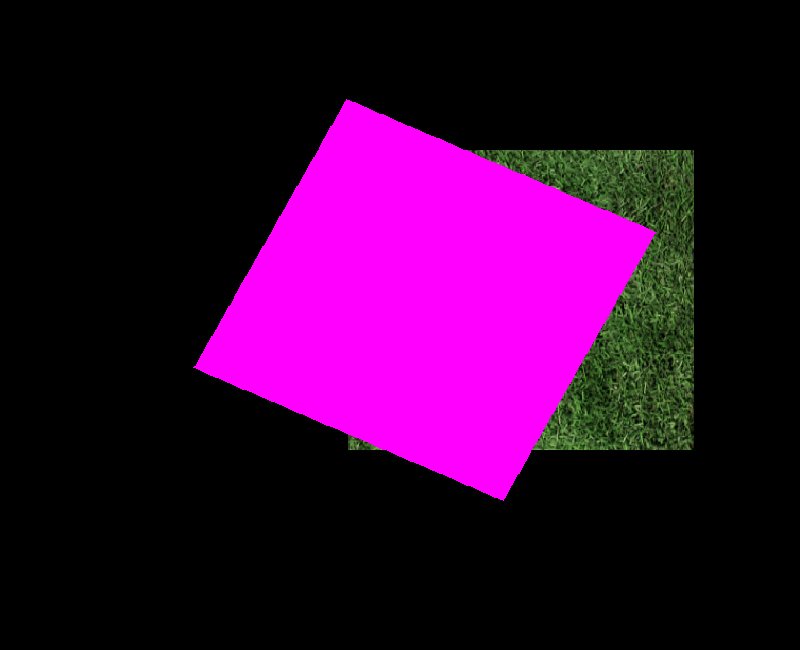
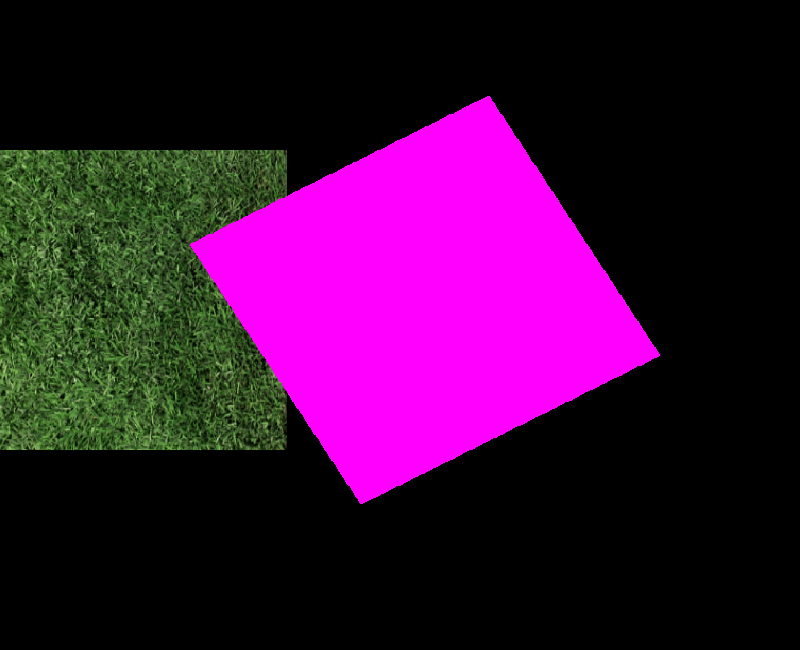
Texture generation added

Changed region(s): [[0.0, 0.1538, 0.875, 0.7692]]

diff --git a/ApusCore/Texture.cpp b/ApusCore/Texture.cpp
@@ -4,6 +4,12 @@
 ApusCore::Texture::Texture(const char* path) : path(path) {
 	data = stbi_load(path, &width, &height, &channels, 0);
 
+	/*for (int i = 0; i < 10; i++) {
+		for (int j = 0; j < 10; j++) {
+			std::cout << (float)data[(i + width * j) * channels] << " " << (float)data[(i + width * j) * channels + 1] << " " << (float)data[(i + width * j) * channels + 2] << " " << std::endl;
+		}
+	}*/
+
 	glGenTextures(1, &id);
 	Bind();
 
@@ -18,6 +24,18 @@ ApusCore::Texture::Texture(const char* path) : path(path) {
 	Unbind();
 }
 
+ApusCore::Texture::Texture(unsigned char* (*func)(lm::vec2 pos, lm::vec2 uv), int width, int height) : width(width), height(height) {
+	glGenTextures(1, &id);
+	Bind();
+
+	glTexParameteri(GL_TEXTURE_2D, GL_TEXTURE_WRAP_S, GL_REPEAT);
+	glTexParameteri(GL_TEXTURE_2D, GL_TEXTURE_WRAP_T, GL_REPEAT);
+	glTexParameteri(GL_TEXTURE_2D, GL_TEXTURE_MIN_FILTER, GL_LINEAR_MIPMAP_LINEAR);
+	glTexParameteri(GL_TEXTURE_2D, GL_TEXTURE_MAG_FILTER, GL_LINEAR);
+
+	Generate(func);
+}
+
 void ApusCore::Texture::LoadTexture(const char* texturePath) {
 	//std::cout << texturePath << std::endl;
 	if (strcmp(path.c_str(), texturePath) == 0)
@@ -26,6 +44,28 @@ void ApusCore::Texture::LoadTexture(const char* texturePath) {
 	Clear();
 	path = texturePath;
 	data = stbi_load(texturePath, &width, &height, &channels, 0);
+
+
+	Bind();
+
+	glTexImage2D(GL_TEXTURE_2D, 0, GL_RGB, width, height, 0, GL_RGB, GL_UNSIGNED_BYTE, data);
+	glGenerateMipmap(GL_TEXTURE_2D);
+
+	Unbind();
+}
+
+void ApusCore::Texture::Generate(unsigned char*(*func)(lm::vec2 pos, lm::vec2 uv)) {
+	Clear();
+
+	data = new unsigned char[width * height * 3];
+	for (int i = 0; i < width; i++) {
+		for (int j = 0; j < height; j++) {
+			unsigned char* pixel = func({ (float)i, (float)j }, { (float)i / width, (float)j / height });
+			for (int ch = 0; ch < 3; ch++) {
+				data[(i + width * j) * 3 + ch] = pixel[ch];
+			}
+		}
+	}
 
 	Bind();
 

diff --git a/Apus/NewApp.h b/Apus/NewApp.h
@@ -15,6 +15,15 @@ public:
 		sp = ApusCore::Sprite();
 		sp1 = ApusCore::Sprite();
 
+		
+		auto test = [](lm::vec2 pos, lm::vec2 uv) {
+			unsigned char output[3] {uv.x * 255, uv.y * 255, 0};
+			//std::cout << (float)output[0] << " " << (float)output[1] << " " << (float)output[2] << " " << std::endl;
+			return output;
+		};
+
+		sp1.GenerateTexture(test, 256, 256);
+
 		sp.LoadTexture("testing/grass.jpg");
 
 		//sp1.SetRotation(-25);
@@ -38,7 +47,7 @@ public:
 	}
 
 	void LateTick() override {
-		renderer.SaveRender("testing/output.png", ApusCore::ImageType::png);
+		//renderer.SaveRender("testing/output.png", ApusCore::ImageType::png);
 	}
 
 	void End() override {

diff --git a/ApusCore/Texture.h b/ApusCore/Texture.h
@@ -6,6 +6,9 @@
 
 #include <iostream>
 
+#include "lm/lm.h"
+
+
 namespace ApusCore {
 	class Texture {
 	private:
@@ -16,6 +19,7 @@ namespace ApusCore {
 		int width, height, channels;
 
 		Texture(const char* path);
+		Texture(unsigned char* (*func)(lm::vec2 pos, lm::vec2 uv), int width, int height);
 
 		void LoadTexture(const char* texturePath);
 
@@ -32,5 +36,7 @@ namespace ApusCore {
 		void Unbind() {
 			glBindTexture(GL_TEXTURE_2D, 0);
 		}
+
+		void Generate(unsigned char* (*func)(lm::vec2 pos, lm::vec2 uv));
 	};
 }

diff --git a/ApusCore/Sprite.cpp b/ApusCore/Sprite.cpp
@@ -141,4 +141,10 @@ void ApusCore::Sprite::LoadTexture(const char* path) {
 	material.LoadTexture(path);
 }
 
+void ApusCore::Sprite::GenerateTexture(unsigned char* (*func)(lm::vec2 pos, lm::vec2 uv), int width, int height) {
+	material.tex.width = width;
+	material.tex.height = height;
+	material.tex.Generate(func);
+}
+
 

diff --git a/ApusCore/Sprite.h b/ApusCore/Sprite.h
@@ -58,5 +58,7 @@ namespace ApusCore {
 
 
 		void LoadTexture(const char* path);
+
+		void GenerateTexture(unsigned char* (*func)(lm::vec2 pos, lm::vec2 uv), int width, int height);
 	};
 }
